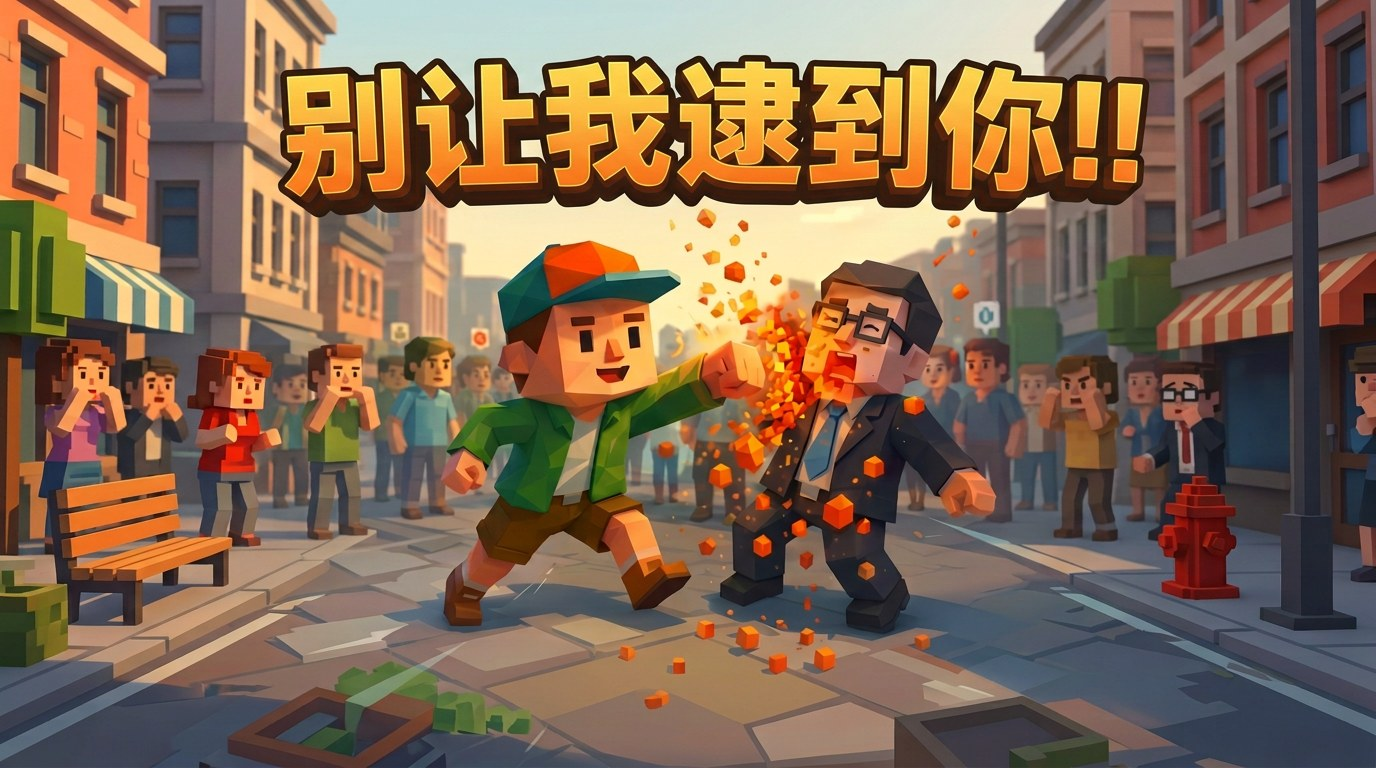
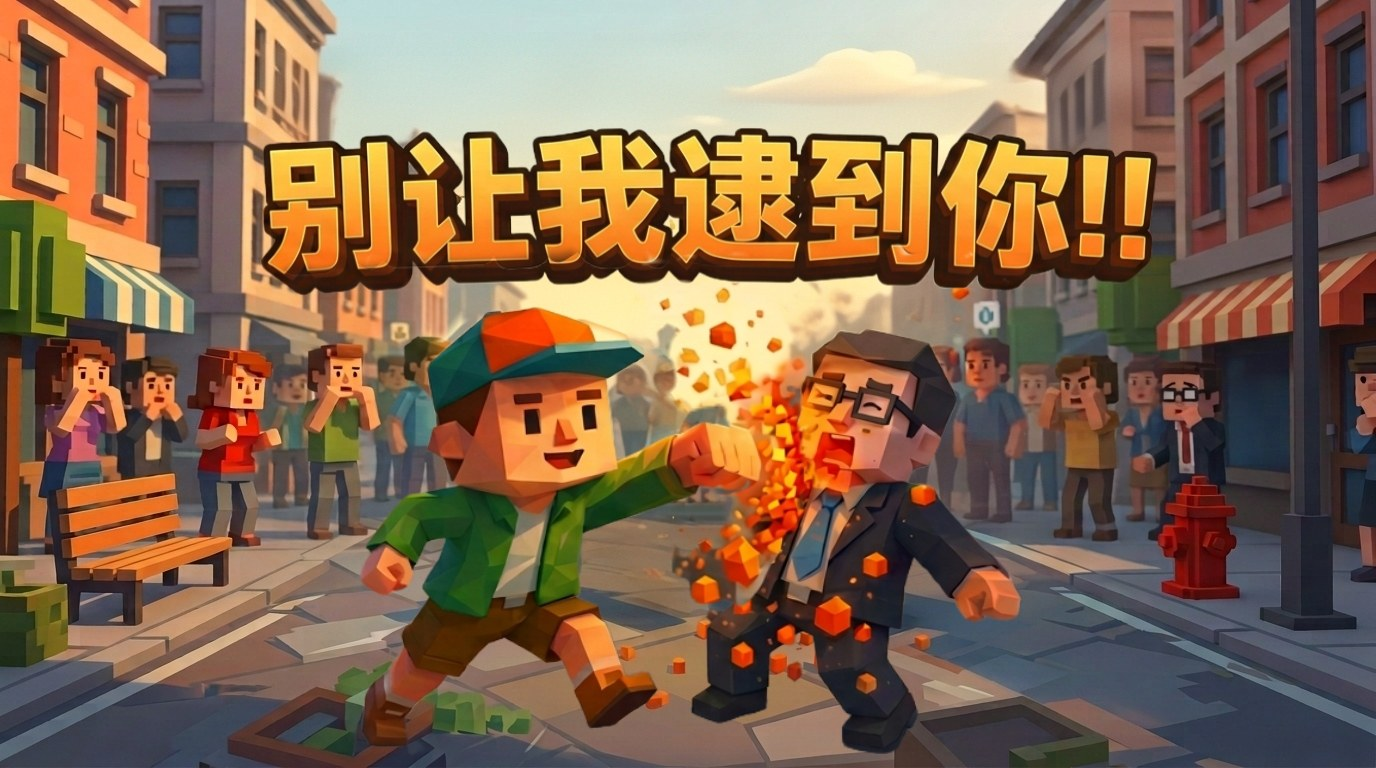
序章分镜调整为八成屏幕大小；替换开场封面底图为精细版

diff --git a/src/styles.css b/src/styles.css
@@ -2039,8 +2039,8 @@ button {
   position: absolute;
   top: 50%;
   left: 50%;
-  /* 只占约七成屏幕，完整露出漫画外围 */
-  width: min(70vw, calc(70dvh * 1376 / 768));
+  /* 只占约八成屏幕，完整露出漫画外围 */
+  width: min(80vw, calc(80dvh * 1376 / 768));
   aspect-ratio: 1376 / 768;
   object-fit: contain;
   border-radius: 10px;
